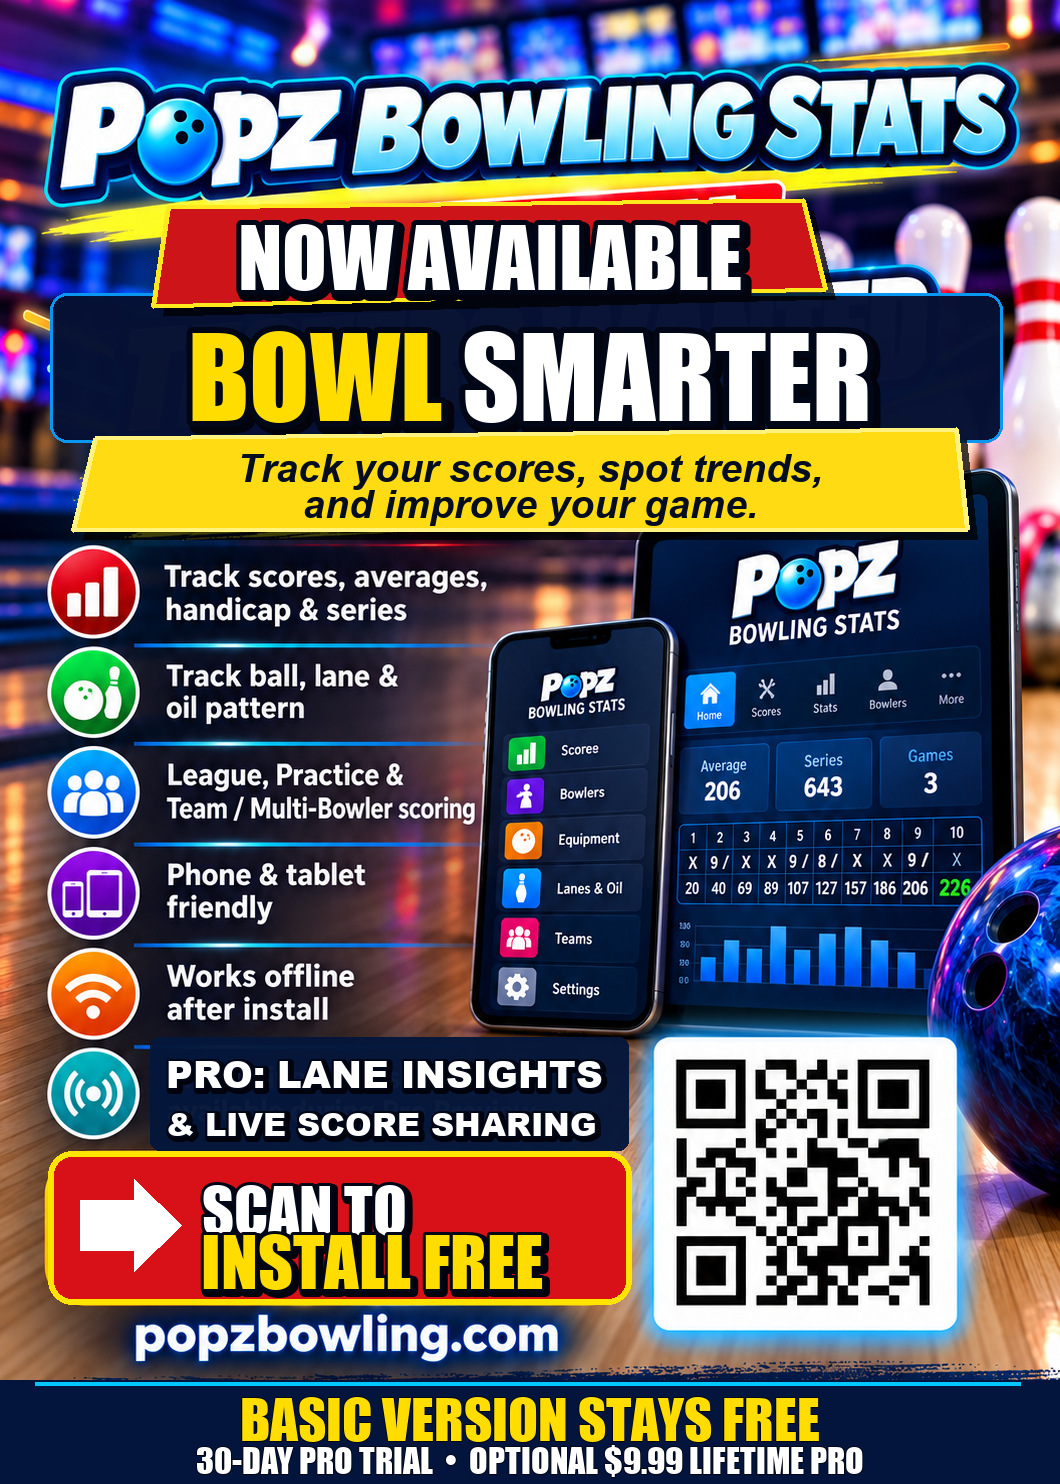
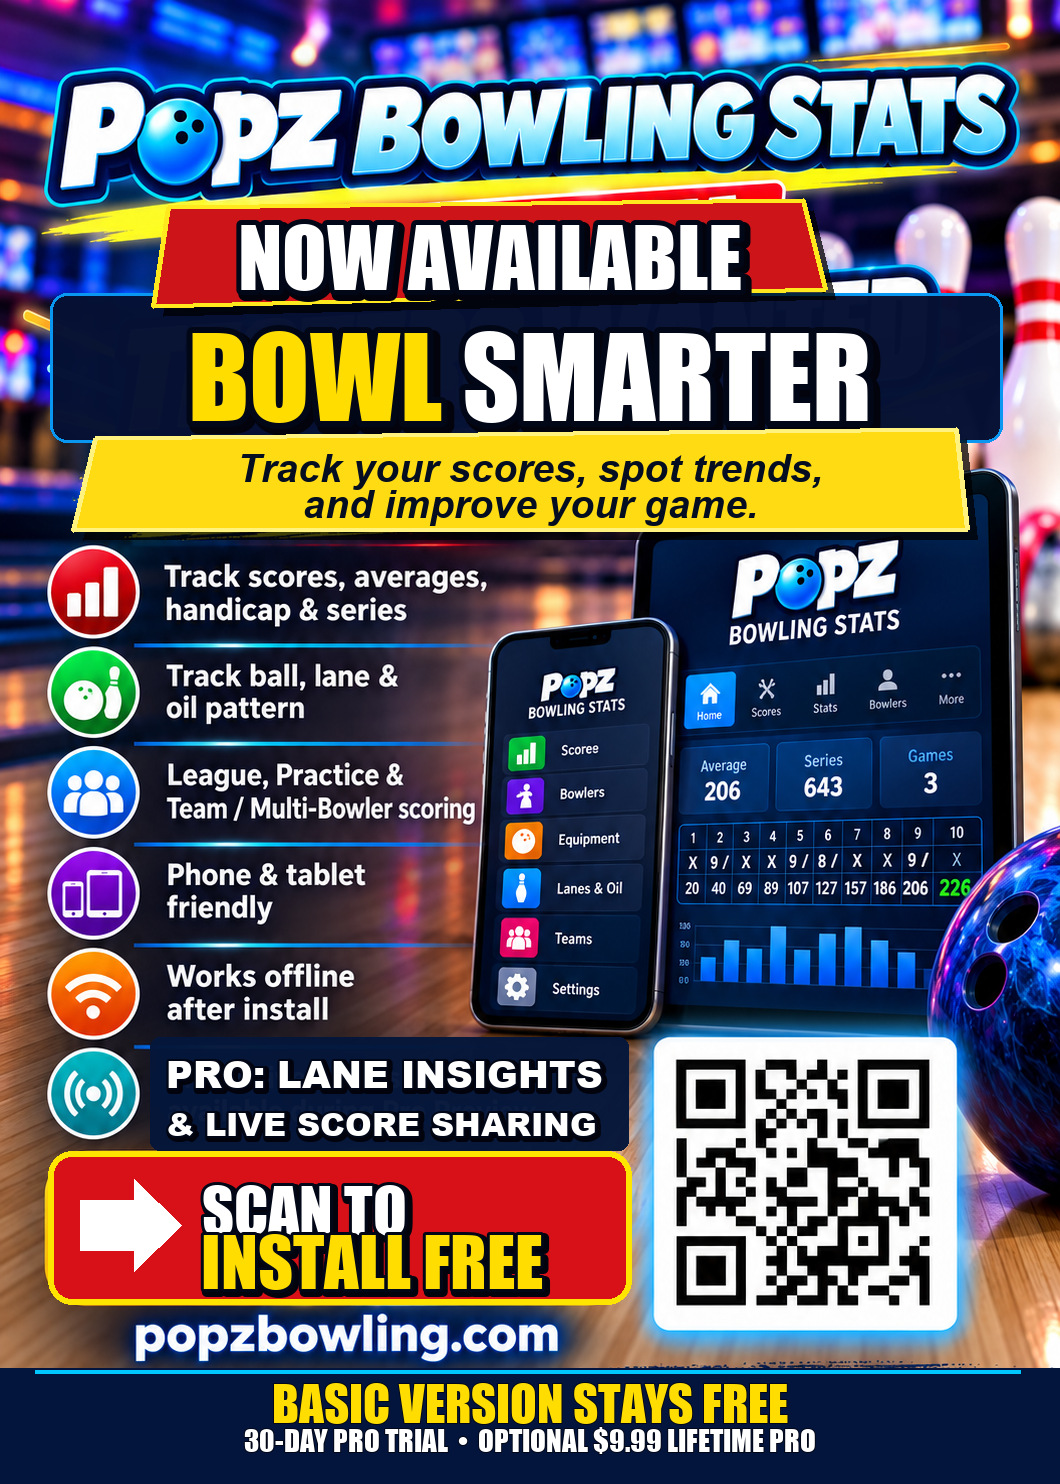
Make 5x7 borderless flyer footer print-safe

Changed region(s): [[0.0, 0.8989, 1.0, 1.0]]

diff --git a/marketing/launch-2026-11-15/build_live_flyer.py b/marketing/launch-2026-11-15/build_live_flyer.py
@@ -113,13 +113,16 @@ text(201,1220,"INSTALL FREE",68,gold,impact,3,3,max_width=410)
 
 # Clear, non-mandatory paid upgrade: the standard Free app remains usable.
 # Keep the QR code and existing website above the footer untouched.
-panel((0,1380,1060,1484),(4,21,61,255),radius=0)
+# The printer's borderless overspray can trim about 1/16 inch off the bottom.
+# Keep the full-bleed navy background, but hold all footer text >1/8 inch
+# from the physical edge at 5x7 (1060x1484px = 212 pixels per inch).
+panel((0,1368,1060,1484),(4,21,61,255),radius=0)
 d=ImageDraw.Draw(im)
-d.line([(35,1383),(1020,1383)],fill=cyan,width=4)
+d.line([(35,1371),(1020,1371)],fill=cyan,width=4)
 
 footer_lines=[
-    ("BASIC VERSION STAYS FREE", 1385, 55, gold, impact),
-    ("30-DAY PRO TRIAL  •  OPTIONAL $9.99 LIFETIME PRO", 1439, 34, white, impact)
+    ("BASIC VERSION STAYS FREE", 1373, 49, gold, impact),
+    ("30-DAY PRO TRIAL  •  OPTIONAL $9.99 LIFETIME PRO", 1422, 29, white, impact)
 ]
 for caption, top, size, ink, face in footer_lines:
     f=font(face,size)

diff --git a/docs/LAUNCH-FLYER-AND-FOUNDER-ADMIN-SHORTCUT-2026-11-15.md b/docs/LAUNCH-FLYER-AND-FOUNDER-ADMIN-SHORTCUT-2026-11-15.md
@@ -48,3 +48,11 @@ This clarifies that the optional Lifetime Pro upgrade is NOT necessary to keep u
 ## Verification
 
 Public source, personal prototype source and Collective `main` were compared to both GitHub and Gitea, and were equal on November 15, 2026 before this documentation follow-up. Personal Bowling v49.10 and its repository are unchanged. After doc/asset commit and dual push, verify final GitHub and Gitea heads again.
+## 5x7 borderless photo-print footer safety (November 15, 2026)
+
+The first proof of the final artwork on the owner's **HP ENVY 6400** using **5x7 Full Bleed, glossy photo paper, High-quality RGB, one-sided** showed about **1/16 inch** of trimming of the bottom price line. The printer's borderless bleed expands/crops the original outer edge; this is a physical print condition, not a web-site or PNG corruption.
+
+- The original requested six-copy CUPS job **#130** was canceled to avoid printing further copies with clipped price text. The number of sheets that physically emerged before cancellation was not confirmed.
+- **Corrected the actual footer geometry** in `marketing/launch-2026-11-15/build_live_flyer.py` and regenerated both PNG and Facebook JPG. The full-bleed navy background remains edge-to-edge, while footer text is moved higher and slightly resized, leaving at least approximately 1/8 inch safe clearance from the 5x7 paper cut edge. The original valid `popzbowling.com` QR bitmap is unchanged.
+- One corrected **borderless 5x7 High-quality glossy print proof, CUPS job #131**, was sent to the HP ENVY. The physical sheet has NOT yet been inspected by the owner in this record. Do not send another six without confirming the proof and knowing how many earlier sheets have printed.
+- Original public Beta artwork and previous launch flyer versions remain archived on the owner's Mac, including the `Archive - Previous Launch Flyer/` and `Archive - Original Beta Flyers/` folders. The updated final PNG, JPG and regenerating script are copied to the public Git repository and the Popz Projects backup drive. No customer app code or production deployment changes.
